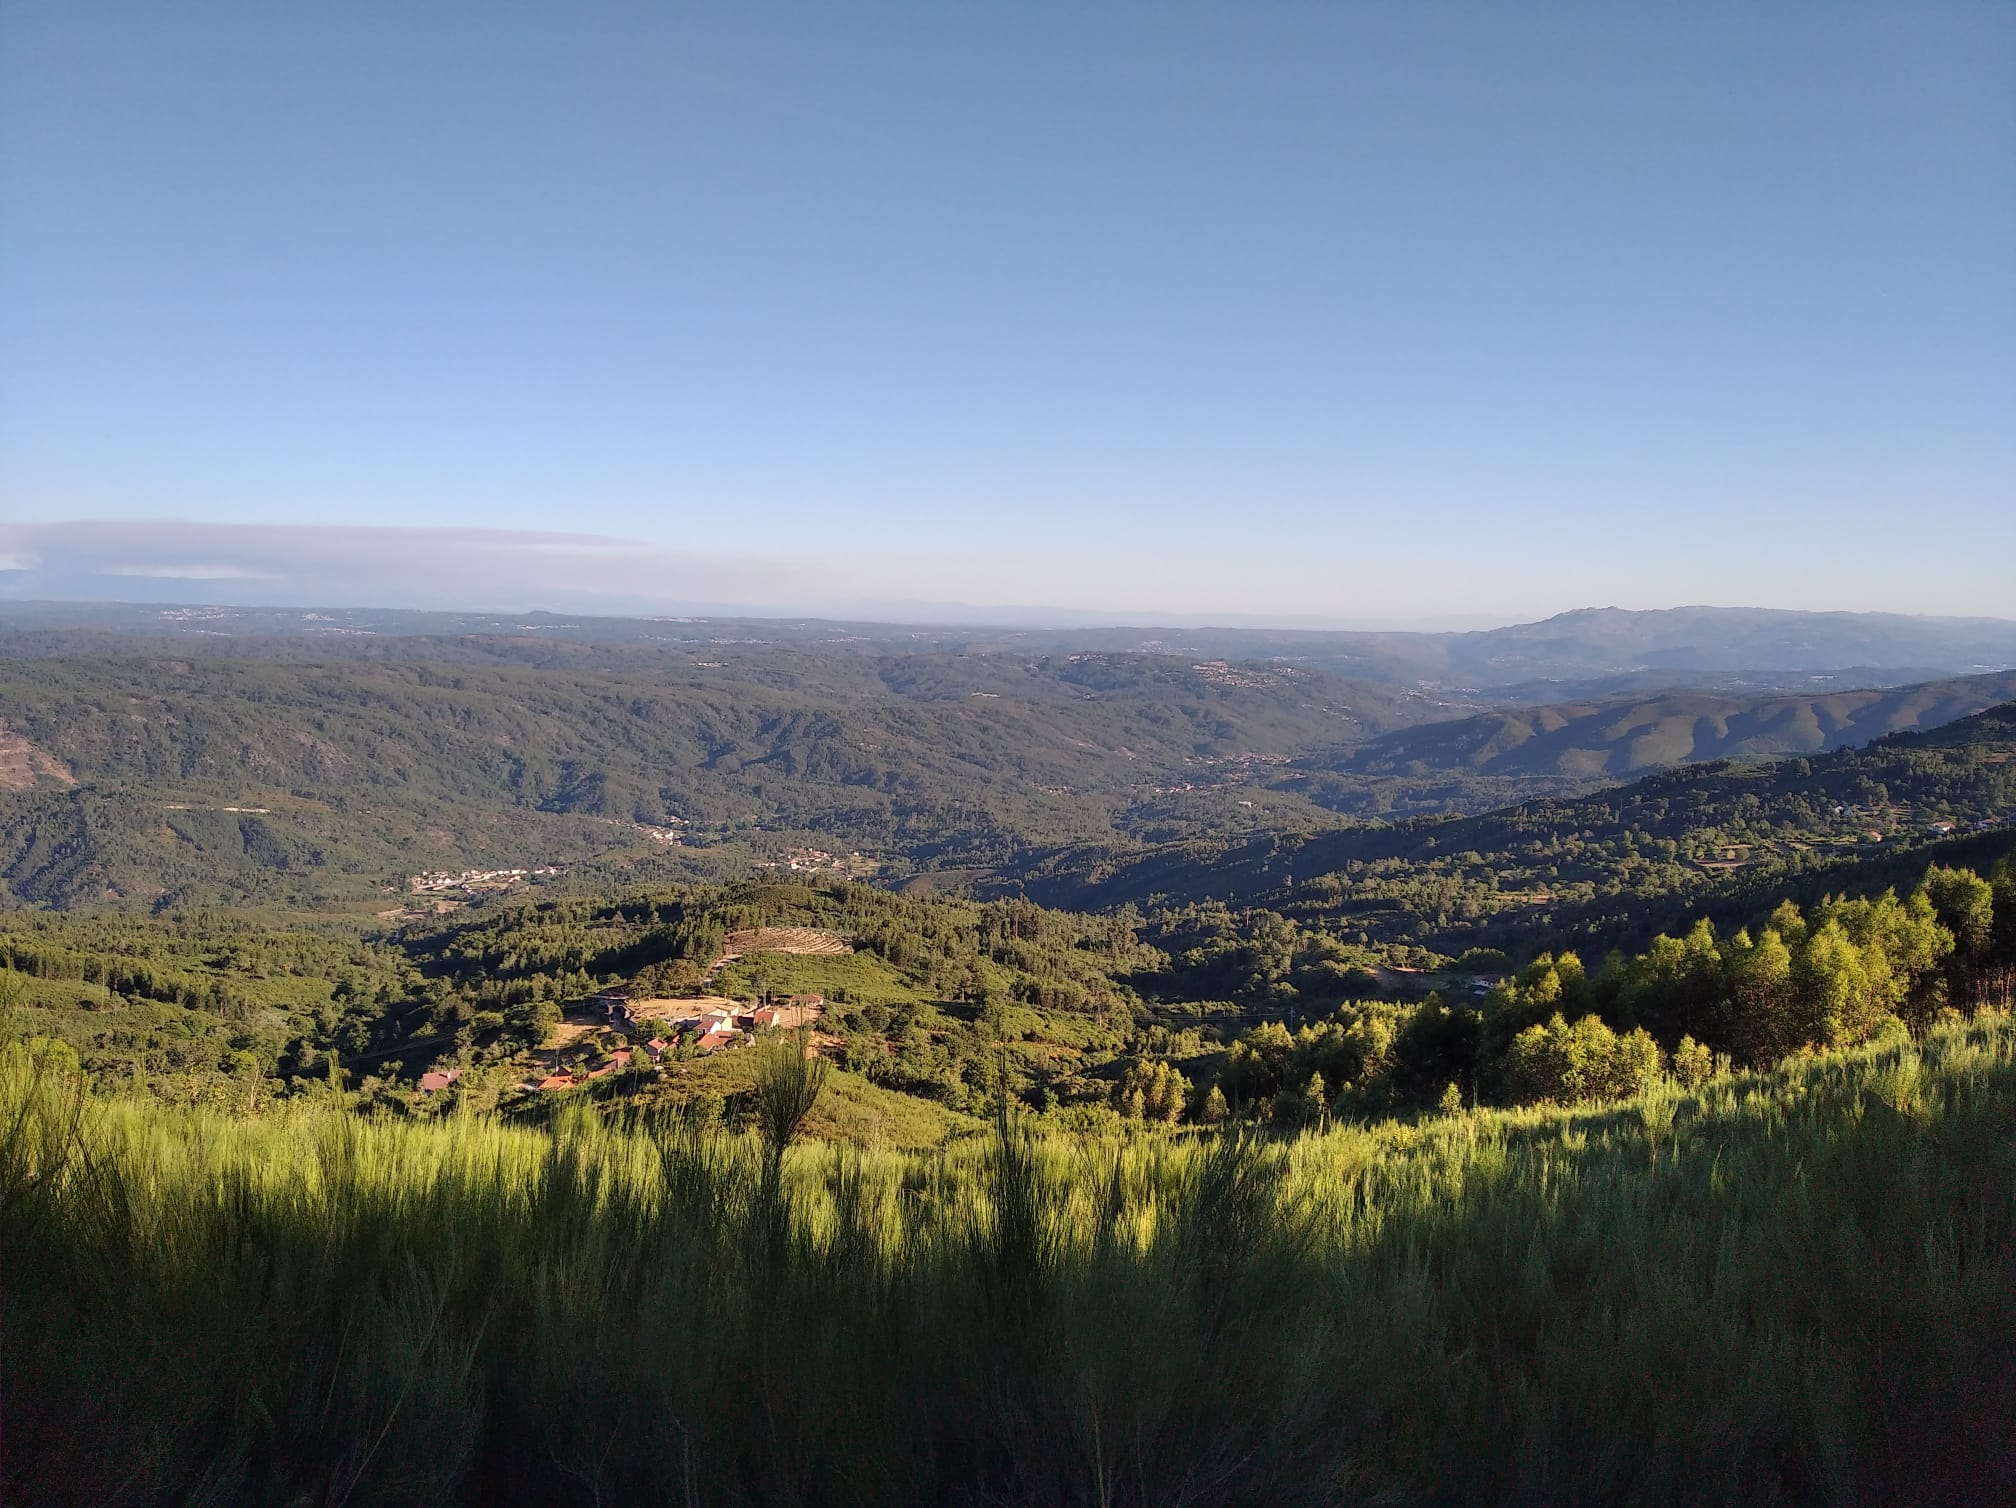
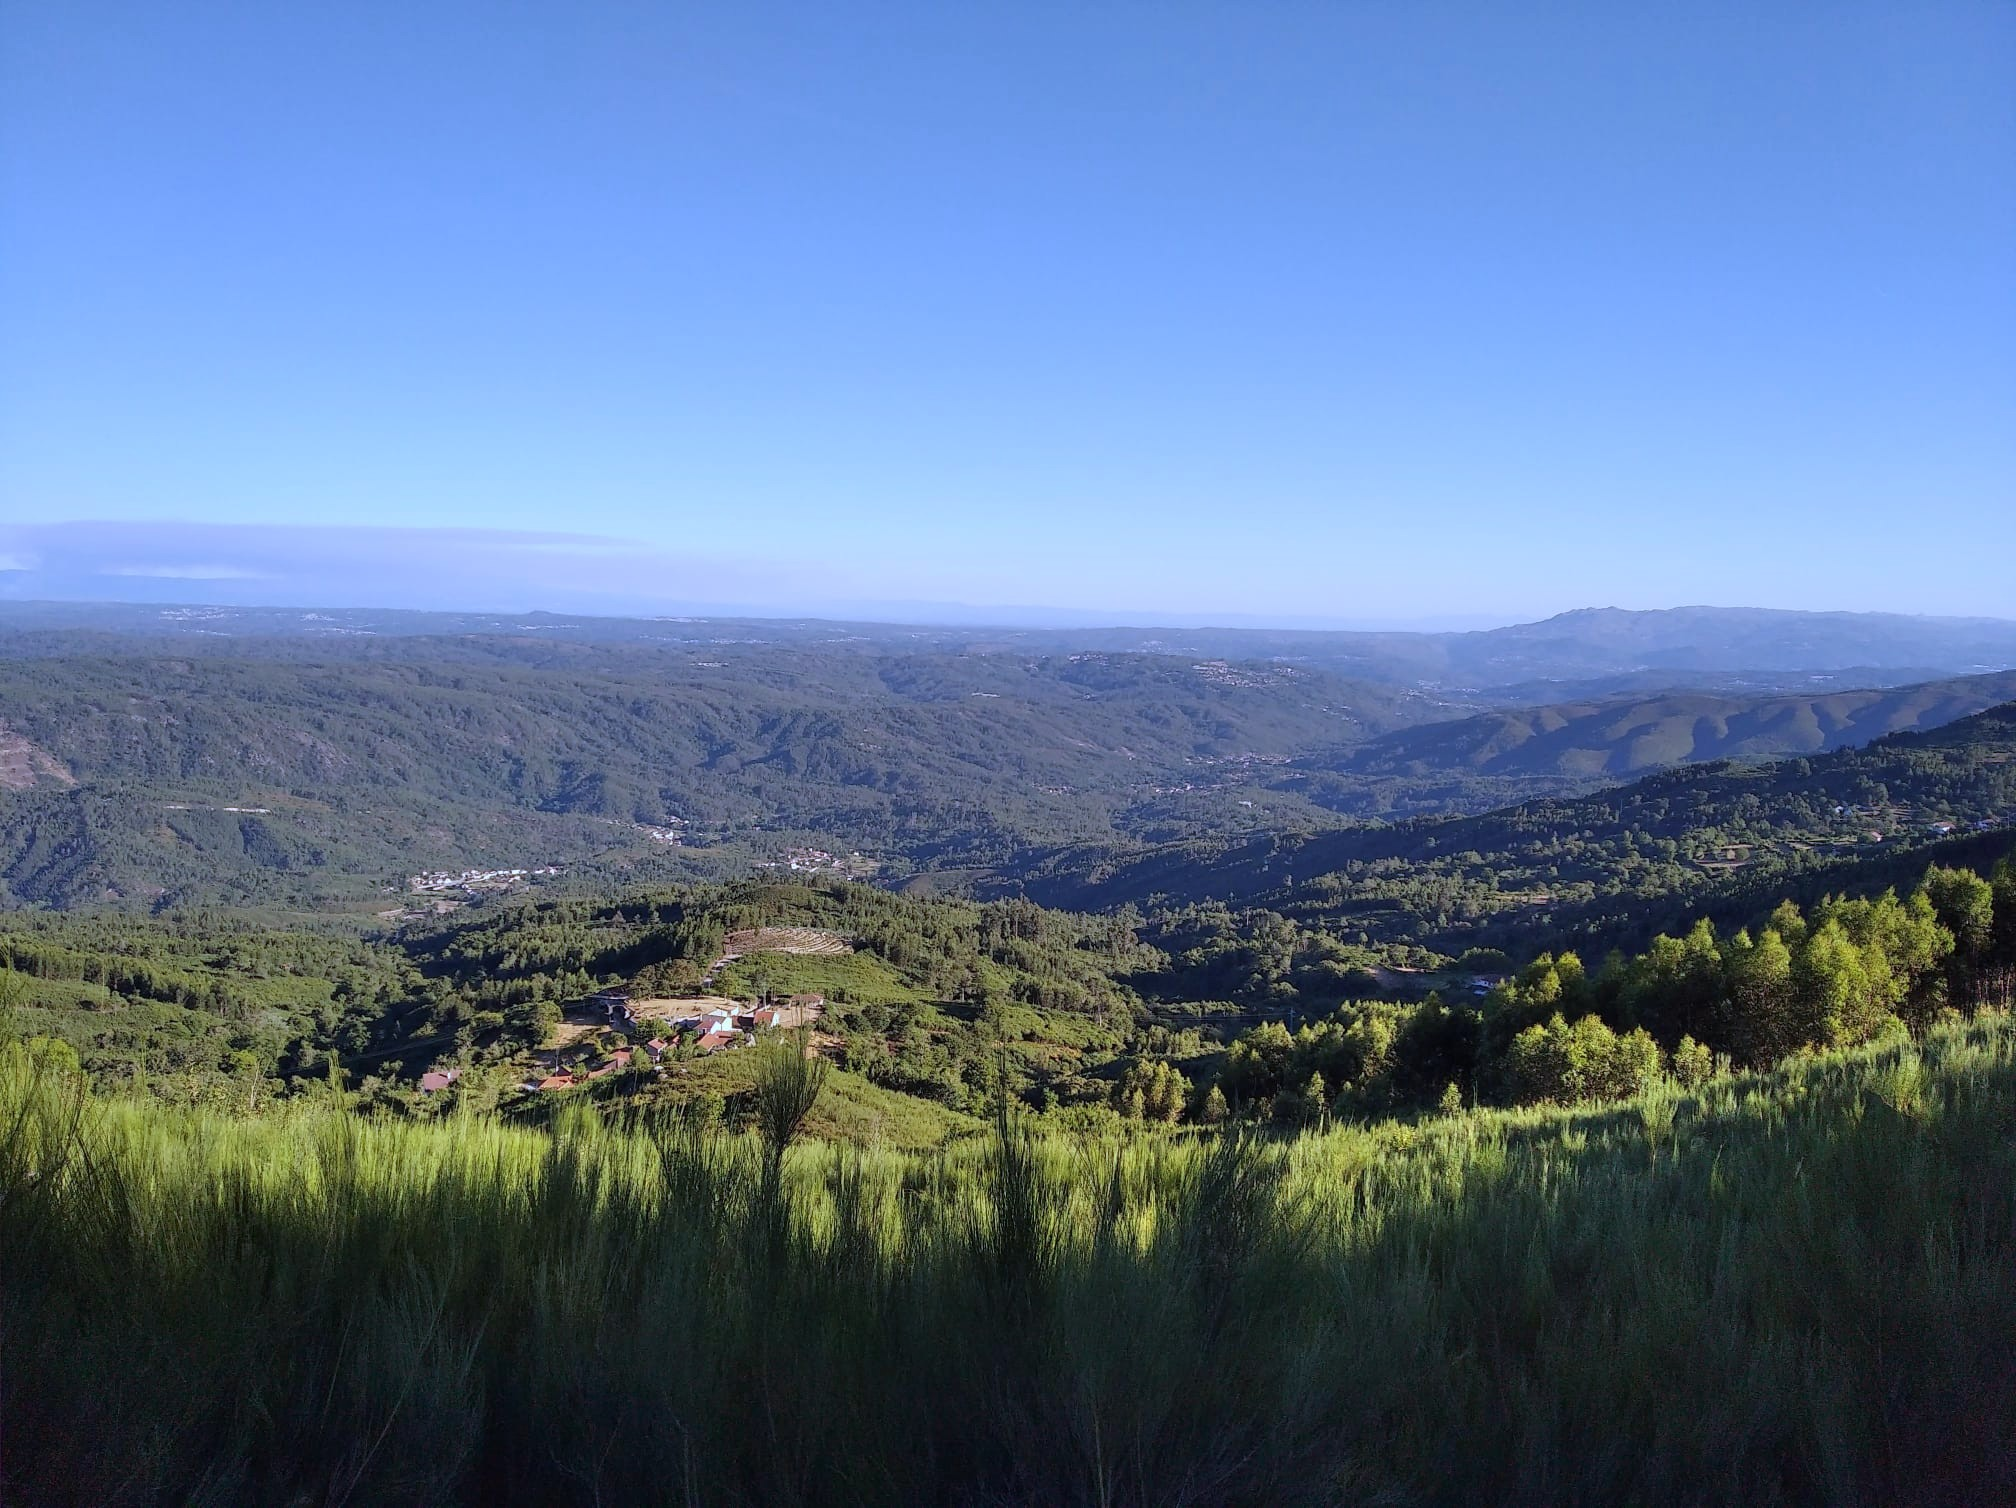
nova imagem do fundo index

diff --git a/index.php b/index.php
@@ -14,7 +14,7 @@ include __DIR__ . '/includes/header.php';
 
 <main>
   <!-- HERO -->
-  <section class="hero" style="background: url('<?= SITE_URL ?>/assets/images/fundo_site.jpeg?v=1') center/cover no-repeat;">
+  <section class="hero" style="background: url('<?= SITE_URL ?>/assets/images/fundo_site_.png?v=1') center/cover no-repeat;">
     <div class="hero-content">
       <div class="hero-logo-wrap">
         <img src="<?= SITE_URL ?>/assets/images/logo_icon.png" alt="Segredo Lusitano" class="hero-logo-img" style="height:180px;width:180px;max-width:180px;object-fit:contain;display:block;margin:0 auto;">